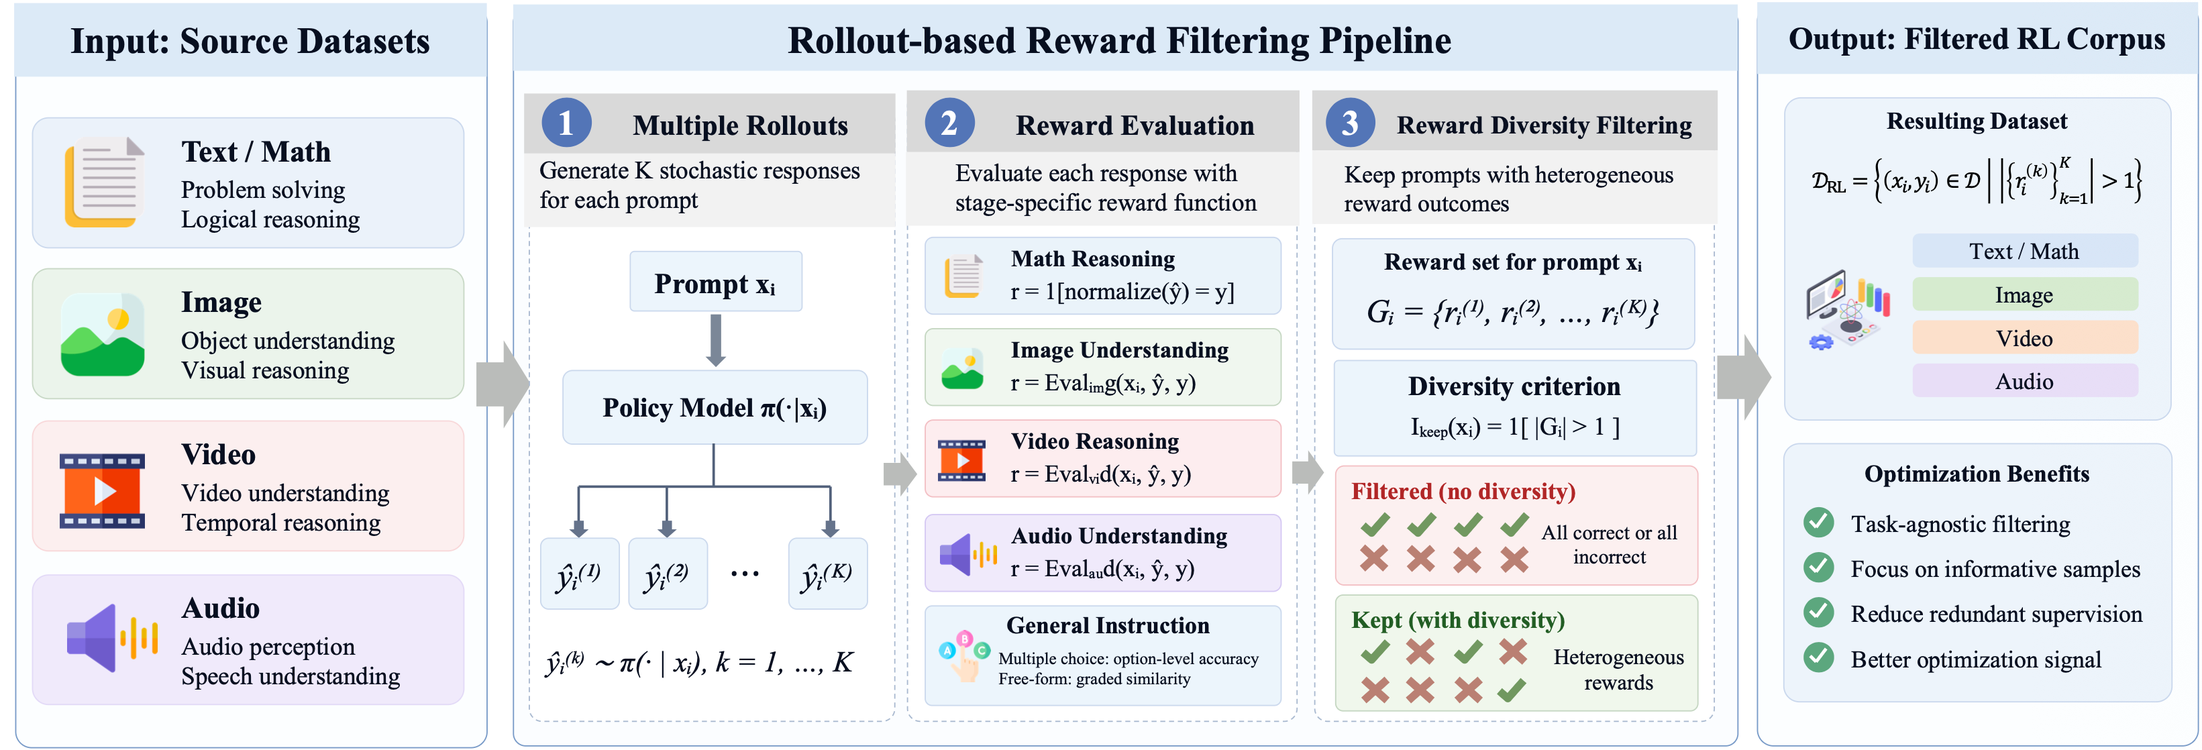
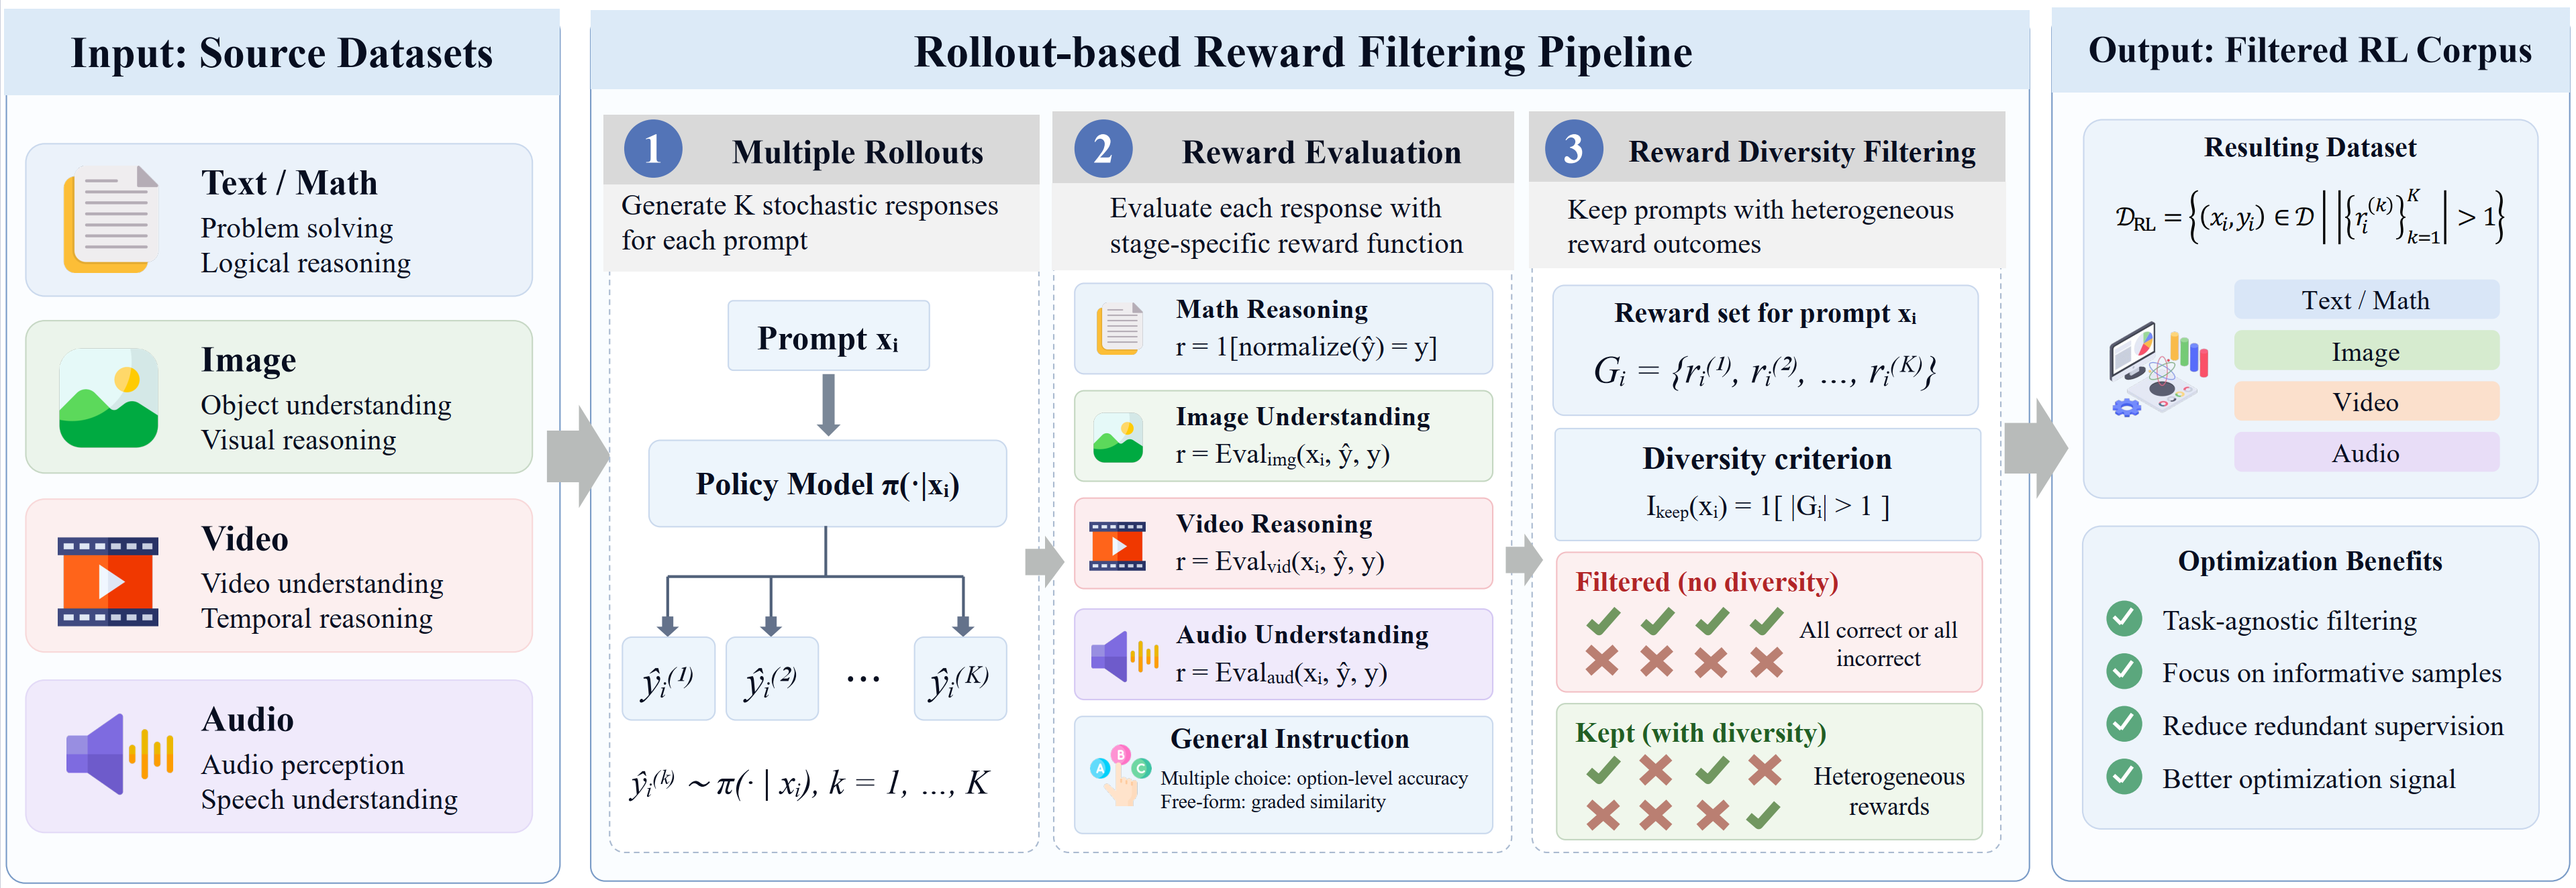
Init

diff --git a/README.md b/README.md
@@ -136,8 +136,8 @@ This work is built upon the following open‑source repositories. We sincerely t
 
 ```bibtex
 @article{liu2026omnifysics-nano-v2,
-  title   = {OmniFysics-Nano-V2: Understanding the Physical World Across Modalities},
-  author  = {Yizhou Liu, Jinghang Han, Kaixiang Qiu, Qi He, Shunli Wang, Lihua Zhang, Dingkang Yang},
+  title   = {OmniFysics-Nano-V2 Technical Report: Understanding the Physical World Across Modalities},
+  author  = {Yizhou Liu, Jinghang Han, Kaixiang Qiu, Qi He, Minghao Han, Yue Jiang, Xujia Chen, Wei Zou, Shunli Wang, Lihua Zhang, Dingkang Yang},
   journal = {arXiv preprint},
   year    = {2026}
 }
